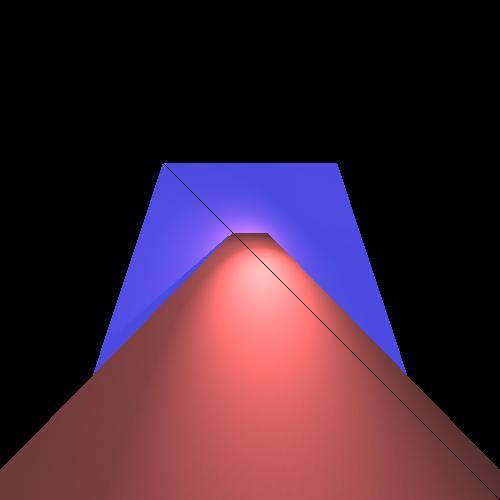
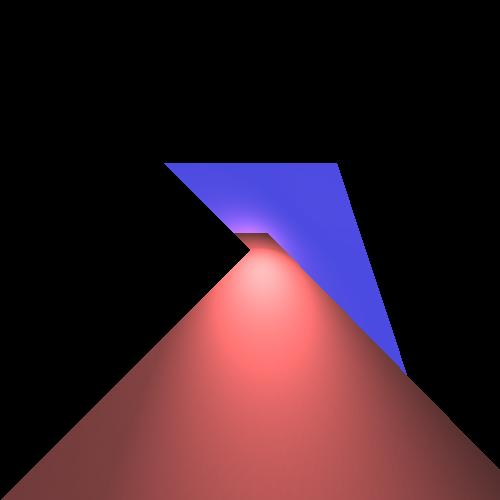
fixed broken square bug

diff --git a/src/testing/tests/quadrantTest.java b/src/testing/tests/quadrantTest.java
@@ -29,20 +29,23 @@ public class quadrantTest {
 
         Point3D p1= new Point3D(  0,  3500, -1000);
         Point3D p2= new Point3D( 0, -3500, -1000);
-        Point3D p3= new Point3D(  0, 3500, -3000);
-        Point3D p4 =new Point3D( 0,  -3500, -3000);
+        Point3D p3= new Point3D(  0, -3500, -3000);
+        Point3D p4 =new Point3D( 0,  3500, -3000);
         Point3D p5= new Point3D(  500,  3500, -1000);
         Point3D p6= new Point3D( 500, -3500, -1000);
-        Point3D p7= new Point3D(  500, 3500, -3000);
-        Point3D p8 =new Point3D( 500,  -3500, -3000);
+        Point3D p7= new Point3D(  500, -3500, -3000);
+        Point3D p8 =new Point3D( 500,  3500, -3000);
 
         Point3D p55= new Point3D(  -2500,  3500, -1000);
         Point3D p55right= new Point3D(  -2500,  3500, -1500);
         Point3D p55left= new Point3D(  -2500,  3000, -1000);
         Point3D p55upr= new Point3D(  500,  3500, -1500);
         Point3D p55upl= new Point3D(  500,  3000, -1000);
-        quadrilateral2 p5legRight = new quadrilateral2(p55left,p55upl,p5,p55);
-        quadrilateral2 p5legLeft = new quadrilateral2(p55,p5,p55upr,p55right);
+        //bettween p5 and p55upr and p55upl we have an unclosed triangle
+        quadrilateral2 p5frontRightFacing= new quadrilateral2(p55left,p55,p5,p55upl);//this one is facing us
+        quadrilateral2 p5frontRightside = new quadrilateral2(p55,p5,p55upr,p55right);
+        /*quadrilateral2 p5legRight = new quadrilateral2(p55left,p55upl,p5,p55);
+        quadrilateral2 p5legLeft = new quadrilateral2(p55,p5,p55upr,p55right);*/
 
         Point3D p66= new Point3D( -2500, -3500, -1000);
         Point3D p77= new Point3D(  -2500, 3500, -3000);
@@ -61,8 +64,8 @@ public class quadrantTest {
         rightSide.setEmmission(new Color (50, 80, 40));
         leftSide.setEmmission(new Color (50, 80, 40));
         frontSide.setEmmission(new Color (50, 80, 40));
-        p5legRight.setEmmission(new Color (250, 0, 0));
-        p5legLeft.setEmmission(new Color (50, 50, 200));
+        p5frontRightFacing.setEmmission(new Color (250, 0, 0));
+        p5frontRightside.setEmmission(new Color (50, 50, 200));
 
         //quadrilateral2 leg1forNowsomething = new quadrilateral2(p10,p30,p20,p40);
 
@@ -88,8 +91,8 @@ public class quadrantTest {
         scene.addGeometry(frontSide);
 
         //now to add the legs
-        scene.addGeometry(p5legRight);
-        scene.addGeometry(p5legLeft);
+        scene.addGeometry(p5frontRightFacing);
+        scene.addGeometry(p5frontRightside);
         //scene.addGeometry(myLeg1);
         Camera c1 = new Camera(new Point3D(2000,0,0), new Vector(1,0,0), new Vector(0,0,-1));
         scene.setCamera(c1);
@@ -122,9 +125,6 @@ public class quadrantTest {
         Point3D p31= new Point3D(  350, -350, -1000);
         Point3D p41 =new Point3D( -350,  350, 0);
         quadrilateral2 square2 = new quadrilateral2(p11,p31,p21,p41);
-
-
-
 
 
 

diff --git a/src/main/geometries/quadrilateral2.java b/src/main/geometries/quadrilateral2.java
@@ -32,11 +32,16 @@ public class quadrilateral2 extends Geometry implements FlatGeometry{
         }
 
 
-        public quadrilateral2 (Point3D P1, Point3D P2, Point3D P3, Point3D P4)
+      /*  public quadrilateral2 (Point3D P1, Point3D P2, Point3D P3, Point3D P4)
         {
             _tri1 = new Triangle(P1, P2, P4);
             _tri2 = new Triangle(P4, P3, P1);
-        }
+        }*/
+    public quadrilateral2 (Point3D frontRight, Point3D frontLeft, Point3D backLeft, Point3D backRight)
+    {//must put in point's in order od a circle think code Gray?? where only change one number
+        _tri1 = new Triangle(frontRight, frontLeft, backLeft);//(1,1,1),(1,-1,1),(1,-1,-1) or (1,1,0),(1,-1,0),(-1,-1,0) for x,y on ground
+        _tri2 = new Triangle(backLeft,backRight , frontRight);
+    }
 
 
         //****************** getters & setters ****************

diff --git a/src/main/geometries/Box.java b/src/main/geometries/Box.java
@@ -1,0 +1,5 @@
+package main.geometries;
+
+public class Box {
+
+}
